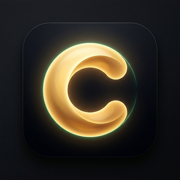
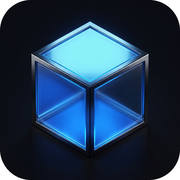
auto-commit for 75d210e8-1f20-41ab-94fd-bb9020802fde

diff --git a/frontend/src/components/AppLayout.jsx b/frontend/src/components/AppLayout.jsx
@@ -26,8 +26,24 @@ const NAV = [
   { to: "/definicoes", label: "Empresa", icon: SettingsIcon, testid: "nav-empresa" },
 ];
 
-const Logo = () => (
-  <div className="w-10 h-10 rounded-xl bg-gradient-to-br from-blue-500 to-blue-700 shadow-[0_0_20px_rgba(59,130,246,0.4)] flex items-center justify-center text-white font-serif-lux text-lg">C</div>
+const Logo = ({ size = 40 }) => (
+  <svg width={size} height={size} viewBox="0 0 48 48" fill="none" className="shrink-0" aria-hidden="true">
+    <defs>
+      <linearGradient id="cube-top" x1="0" y1="0" x2="1" y2="1">
+        <stop offset="0" stopColor="#93C5FD" /><stop offset="1" stopColor="#3B82F6" />
+      </linearGradient>
+      <linearGradient id="cube-left" x1="0" y1="0" x2="0" y2="1">
+        <stop offset="0" stopColor="#2563EB" /><stop offset="1" stopColor="#1E3A8A" />
+      </linearGradient>
+      <linearGradient id="cube-right" x1="0" y1="0" x2="0" y2="1">
+        <stop offset="0" stopColor="#3B82F6" /><stop offset="1" stopColor="#1D4ED8" />
+      </linearGradient>
+    </defs>
+    <path d="M24 4 L42 14 L24 24 L6 14 Z" fill="url(#cube-top)" />
+    <path d="M6 14 L24 24 L24 44 L6 34 Z" fill="url(#cube-left)" />
+    <path d="M42 14 L24 24 L24 44 L42 34 Z" fill="url(#cube-right)" />
+    <path d="M24 4 L42 14 L24 24 L6 14 Z" fill="none" stroke="#BFDBFE" strokeOpacity="0.4" strokeWidth="0.6" />
+  </svg>
 );
 
 export function AppLayout() {

diff --git a/frontend/public/index.html b/frontend/public/index.html
@@ -3,7 +3,7 @@
     <head>
         <meta charset="utf-8" />
         <meta name="viewport" content="width=device-width, initial-scale=1" />
-        <meta name="theme-color" content="#0B0C10" />
+        <meta name="theme-color" content="#05050A" />
         <meta name="description" content="CEO AI — o Diretor Executivo Digital que analisa a sua empresa e decide consigo, lado a lado, o que fazer hoje." />
         <link rel="icon" href="%PUBLIC_URL%/favicon.ico" />
         <link rel="icon" type="image/png" href="%PUBLIC_URL%/favicon.png" />
